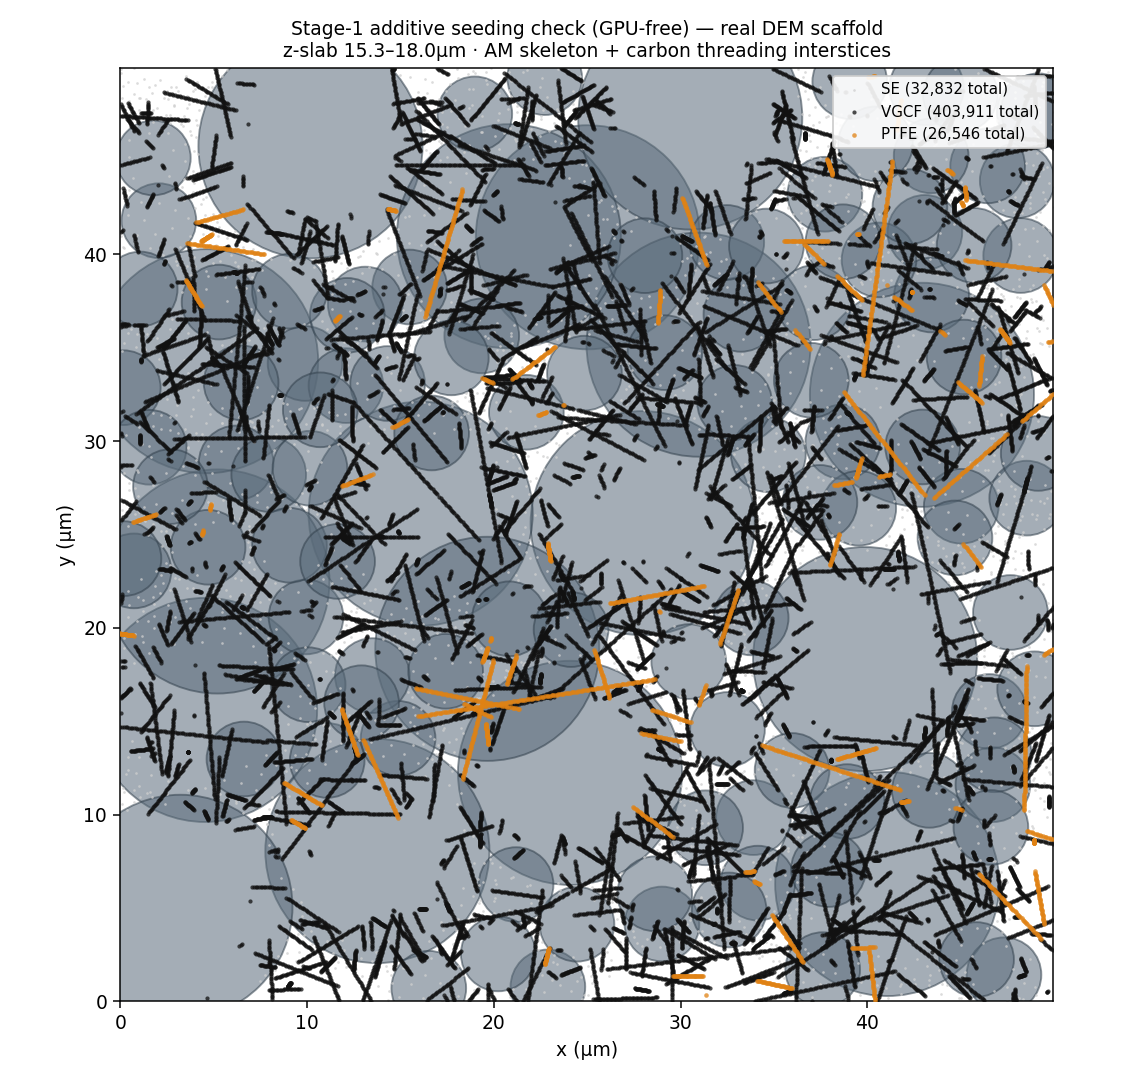
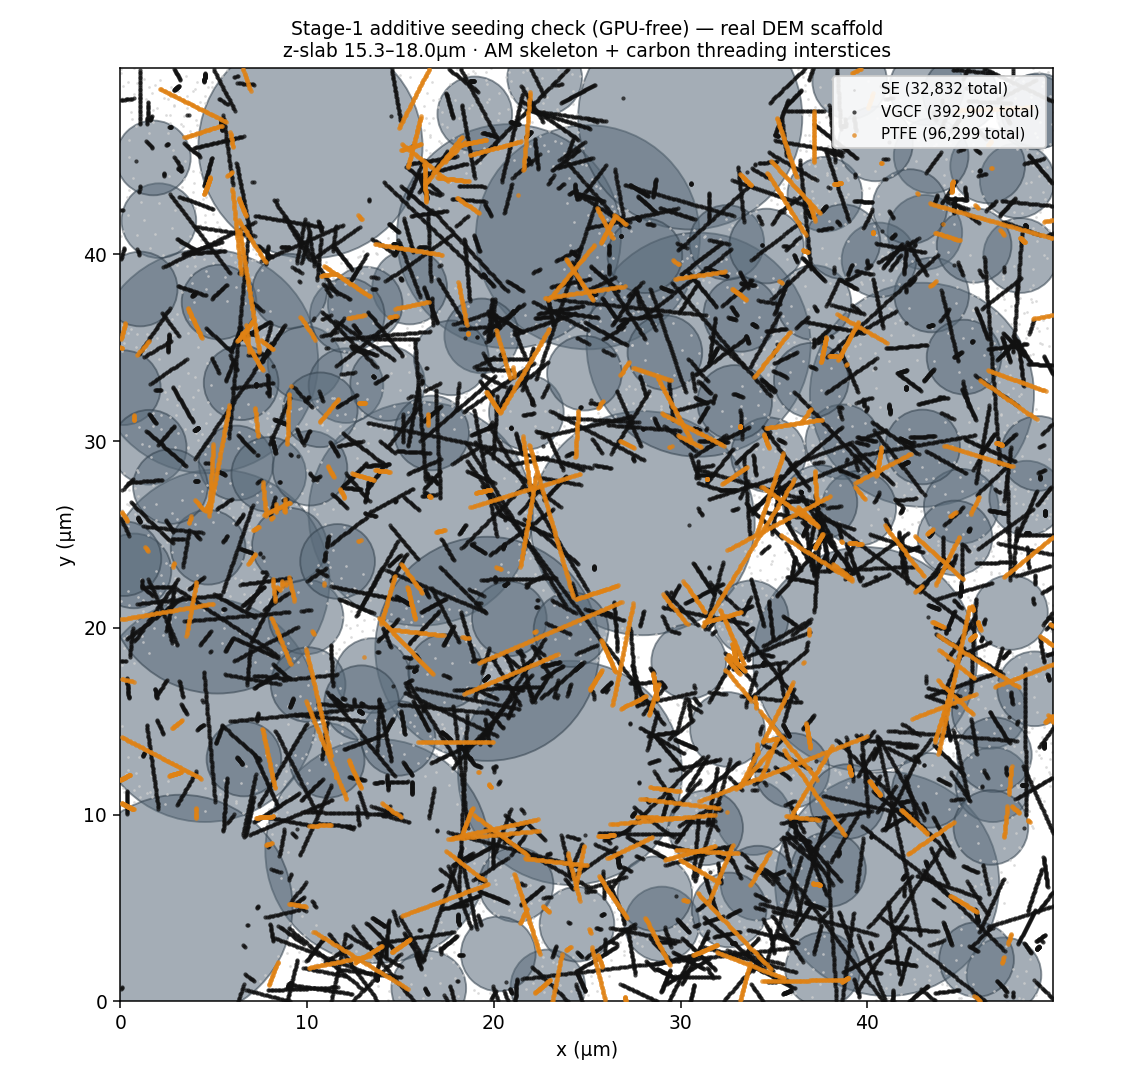
Stage 1: fibre length variation + PTFE as a long thin fibril
Two requests: give the additives a size spread, and make PTFE read as a
fibre (the spanning binder web), not a stub.

- seed_fibres: per-fibre length ~ lognormal(mean L, cv=L_cv), mean-
  preserving so the recipe count/volume is unchanged — only the lengths
  spread (real VGCF/PTFE: milling/breakage length distribution; Ø stays
  ~fixed and is sub-grid anyway).  return_lengths for reporting.
- PTFE geometry Ø0.50/L30 → Ø0.25/L40: AR 60 → 160, longer + thinner +
  ~3x more fibrils → the spanning binder, vs VGCF's short AR-67 rods.
- mpm3d_compaction --add-l-cv (default 0.4) threads L_cv into the seed.
- validator --l-cv reports L min/mean/max + AR per phase.

real_14 80:18:1:1: VGCF L 3/10/30µm (6,319 fibres), PTFE L 12/40/118µm
(517 fibrils).  Count physically anchored: VGCF 1.56vol% = 2.1x rod
percolation threshold (0.5/AR) — a percolating network, the additive's
job, not an over-count.

Claude-Session: https://claude.ai/code/session_01H191Ni4xzj9H5ftstAm7Ft

Changed region(s): [[0.0926, 0.0611, 0.9259, 0.9472]]

diff --git a/scripts/additives.py b/scripts/additives.py
@@ -27,9 +27,10 @@ PHASE = {'SE': 1, 'AM': 0, 'VGCF': 2, 'SuperP': 3, 'PTFE': 4}                 # 
 # default geometry (µm)
 VGCF_D, VGCF_L = 0.15, 10.0      # VGCF fibre Ø, length (Showa Denko VGCF-H; aspect ~67)
 SP_D           = 0.20            # Super P / Super C carbon-black aggregate (sphere, particulate)
-PTFE_D, PTFE_L = 0.50, 30.0      # PTFE FIBRIL Ø, length — dry-process hot-roll fibrillation makes
-                                 # threads ~1µm×~50µm (branch to 10s nm), spanning tens of NMC; a FIBRE
-                                 # like VGCF but soft binder (RSC D5EE03240G; Front. Energy 2023.1336344)
+PTFE_D, PTFE_L = 0.25, 40.0      # PTFE FIBRIL Ø, length — dry-process hot-roll fibrillation makes long
+                                 # thin threads (branch to 10s nm) spanning tens of NMC; LONGER + HIGHER
+                                 # aspect (AR≈160) than VGCF (AR≈67) → reads as the spanning binder web,
+                                 # not a short rod.  Soft binder FIBRE (RSC D5EE03240G; Front. Energy 2023.1336344)
 
 
 def vol_fracs(wt: dict) -> dict:
@@ -55,25 +56,36 @@ def recipe_counts(wt: dict, solid_vol_um3: float, vgcf_d=VGCF_D, vgcf_l=VGCF_L,
     return out
 
 
-def seed_fibres(n, box_um, dx_um, rng, in_am=None, L=VGCF_L):
+def seed_fibres(n, box_um, dx_um, rng, in_am=None, L=VGCF_L, L_cv=0.0, return_lengths=False):
     """n random-oriented fibres (SEM-like: long thin rods threading the interstices),
     each a chain of points spaced ~dx along its axis.  Even distribution = uniform
-    random centres.  Points falling in AM (in_am) are dropped (fibre bends around)."""
+    random centres.  Points falling in AM (in_am) are dropped (fibre bends around).
+
+    L_cv>0 → per-fibre length is drawn from a lognormal with mean L and coefficient
+    of variation L_cv (real VGCF: lengths spread ~5-20µm from milling/breakage, while
+    Ø stays ~150nm — and Ø is sub-grid here so only length matters).  The lognormal is
+    mean-preserving, so the recipe count/volume is unchanged; only the lengths spread.
+    (Ø variation is intentionally NOT modelled: a fibre is ~1 cell thick at dx≈Ø, so
+    diameter spread can't be resolved on the grid.)"""
     (Lx, Ly, Lz) = box_um
-    k = max(2, int(round(L / (0.7 * dx_um))))                      # points per fibre
-    t = np.linspace(-L / 2, L / 2, k)
-    pts = []
+    sigma = np.sqrt(np.log(1.0 + L_cv ** 2)) if L_cv > 0 else 0.0   # lognormal shape, mean-preserving
+    pts, lens = [], []
     for _ in range(n):
+        Li = L if sigma == 0 else float(np.clip(L * np.exp(rng.normal(-0.5 * sigma ** 2, sigma)),
+                                                0.3 * L, 3.0 * L))   # mean(Li)=L, clipped 0.3L..3L
+        k = max(2, int(round(Li / (0.7 * dx_um))))                  # points per fibre (∝ length)
+        t = np.linspace(-Li / 2, Li / 2, k)
         c = np.array([rng.uniform(0, Lx), rng.uniform(0, Ly), rng.uniform(0, Lz)])
-        d = rng.normal(size=3); d /= np.linalg.norm(d) + 1e-12     # isotropic direction
+        d = rng.normal(size=3); d /= np.linalg.norm(d) + 1e-12      # isotropic direction
         line = c[None, :] + t[:, None] * d[None, :]
         line = line[(line[:, 0] >= 0) & (line[:, 0] < Lx) & (line[:, 1] >= 0)
                     & (line[:, 1] < Ly) & (line[:, 2] >= 0) & (line[:, 2] < Lz)]
         if in_am is not None and len(line):
             line = line[~np.array([in_am(p) for p in line])]
         if len(line):
-            pts.append(line)
-    return np.concatenate(pts, 0).astype(np.float32) if pts else np.zeros((0, 3), np.float32)
+            pts.append(line); lens.append(Li)
+    P = np.concatenate(pts, 0).astype(np.float32) if pts else np.zeros((0, 3), np.float32)
+    return (P, np.array(lens, np.float32)) if return_lengths else P
 
 
 def seed_blobs(n, box_um, rng, in_am=None):

diff --git a/scripts/validate_additive_seeding.py b/scripts/validate_additive_seeding.py
@@ -38,6 +38,7 @@ def main():
     ap.add_argument('--um-per-box', type=float, default=1000.0, help='µm per box unit (50µm = 0.05)')
     ap.add_argument('--dx-um', type=float, default=50.0 / 384, help='grid spacing µm (n_grid=384 over 50µm)')
     ap.add_argument('--seed', type=int, default=0)
+    ap.add_argument('--l-cv', type=float, default=0.4, help='fibre length variation (CV); 0=monodisperse')
     ap.add_argument('--slab-frac', type=float, default=0.10, help='half-thickness of the shown z-slab (frac of bed)')
     ap.add_argument('--out', default='docs/figures/additive_seed_check.png')
     ap.add_argument('--save-npy', default='', help='prefix to dump se.npy/phase.npy for viz_additives')
@@ -95,8 +96,10 @@ def main():
         if nm not in cnt:
             continue
         nobj = cnt[nm]['n']
+        lens = None
         if is_fib:
-            raw = ad.seed_fibres(nobj, box, a.dx_um, rng, L=L_um)        # no in_am → seed all, then filter
+            raw, lens = ad.seed_fibres(nobj, box, a.dx_um, rng, L=L_um, L_cv=a.l_cv,
+                                       return_lengths=True)             # no in_am → seed all, then filter
         else:
             raw = ad.seed_blobs(nobj, box, rng)
         if len(raw) == 0:
@@ -107,9 +110,11 @@ def main():
         pts_all.append(kept)
         phase_all.append(np.full(len(kept), code, np.int8))
         coh_all.append(np.full(len(kept), coh, np.float32))
+        lspread = (f'  L {lens.min():.0f}/{lens.mean():.0f}/{lens.max():.0f}µm (min/mean/max, '
+                   f'AR {lens.mean() / (ad.VGCF_D if nm == "VGCF" else ad.PTFE_D):.0f})') if lens is not None else ''
         print(f'  {nm:7s} {nobj:>6,} objects → {len(raw):,} pts, {rej:,} in-AM dropped '
               f'({100 * rej / max(len(raw), 1):.1f}%) → {len(kept):,} kept  '
-              f'(E={E} σ_y={sy} coh={coh}, phase {code})')
+              f'(E={E} σ_y={sy} coh={coh}, phase {code}){lspread}')
 
     pts = np.concatenate(pts_all).astype(np.float32)
     phase = np.concatenate(phase_all)

diff --git a/scripts/mpm3d_compaction.py b/scripts/mpm3d_compaction.py
@@ -109,6 +109,9 @@ def parse_args(argv):
                          'separate — the recipe picks which).  Counts from wt%+density (additives.py), NOT '
                          'hardcoded; fibres=point-chains, SuperP=blobs, avoid fixed AM.  Auto-enables SE '
                          'cohesion (--coh 0.02) unless --coh given.  Needs --am-scaffold.')
+    ap.add_argument('--add-l-cv', type=float, default=0.4,
+                    help='fibre length variation (coefficient of variation) for VGCF/PTFE — real fibres '
+                         'have a length spread; lognormal mean-preserving so counts/volume unchanged. 0=fixed.')
     return ap.parse_args(argv)
 
 
@@ -392,7 +395,7 @@ def main(argv):
                 nobj = cnt[nm]['n']
                 if is_fib:
                     pts = _ad.seed_fibres(nobj, bx, dx, rng, L=L_um / um_box,
-                                          in_am=lambda q: _in_am_abs(q + off))
+                                          L_cv=args.add_l_cv, in_am=lambda q: _in_am_abs(q + off))
                 else:
                     pts = _ad.seed_blobs(nobj, bx, rng, in_am=lambda q: _in_am_abs(q + off))
                 if len(pts) == 0:
